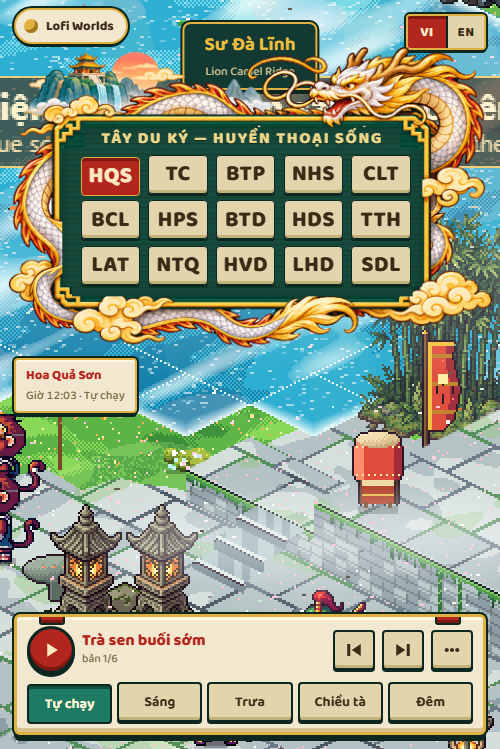
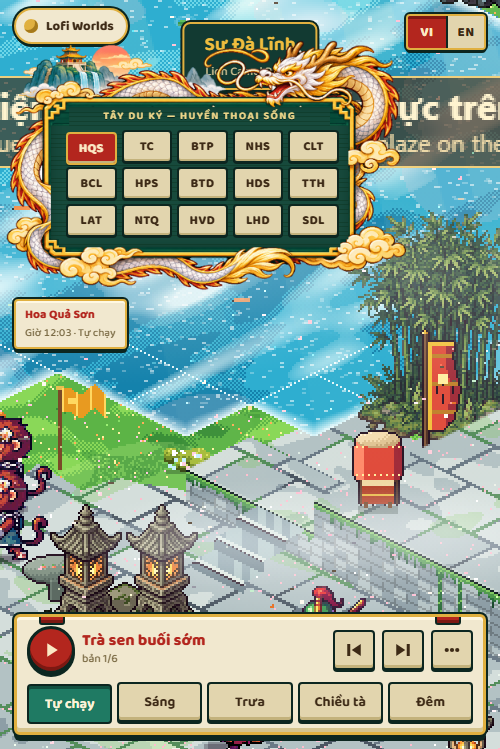
Tây Du Ký UI polish: compact Saigon-density plaque (400px frame, 10.5px title, 12.5px labels), before/after comparison shots

diff --git a/tayduky/td-theme.css b/tayduky/td-theme.css
@@ -63,8 +63,6 @@ body.clean #deco { display: none; }
    its plaque interior is transparent, so the real DOM board (#eras) shows through and the 15 buttons stay interactive.
    Everything is placed in units of --u = 1/1000 of the artwork width, so it scales as one piece. Art px (1000 x 637):
    board interior x 108-860, y 164-522; title centre y 186; button grid x 150-832, y 225-497. */
-:root { --aw: clamp(290px, min(calc(100vw - 16px), 560px, calc((100vh - 220px) * 1.57)), 620px); --u: calc(var(--aw) / 1000); --ax: 8px; --ay: 46px; }
-@media (min-width: 1700px) and (min-height: 900px) { :root { --aw: 620px; } }
 #deco { position: fixed; left: var(--ax); top: var(--ay); width: var(--aw); height: auto; z-index: 4; pointer-events: none; user-select: none; -webkit-user-drag: none; }
 #hud { position: fixed; inset: 0; max-width: none; display: block; pointer-events: none; }
 #hud > * { pointer-events: auto; }
@@ -77,3 +75,12 @@ body.clean #deco { display: none; }
 #eras .tabs.nav button { min-height: 0; height: 100%; font-size: clamp(10px, calc(46 * var(--u)), 28px); border-radius: calc(8 * var(--u)); border-width: calc(2.5 * var(--u)); }
 #info { position: absolute; left: 14px; top: calc(var(--ay) + var(--aw) * 0.637 + 4px); }
 #eras .tabs.nav button.busy .dotb { top: calc(5 * var(--u)); right: calc(5 * var(--u)); }
+
+/* ----- compact polish: Saigon's density (cap 10.5px, small labels). Art 1000px wide is shown at ~400px (350px on phones). ----- */
+:root { --aw: min(calc(100vw - 16px), 400px); --u: calc(var(--aw) / 1000); --ax: 6px; --ay: 40px; }
+@media (max-width: 480px) { :root { --aw: min(calc(100vw - 12px), 340px); --ax: 4px; --ay: 38px; } }
+#eras .cap { font-size: 10.5px; letter-spacing: 1.4px; font-weight: 700; }
+#eras .tabs.nav button { font-size: 12.5px; letter-spacing: .3px; font-weight: 800; border-width: 2px; border-radius: 4px; box-shadow: inset 0 -2px 0 #c3b27c, 0 1px 0 var(--ink); }
+#eras .tabs.nav { gap: 4px 5px; }
+@media (max-width: 480px) { #eras .cap { font-size: 8.5px; letter-spacing: .6px; } #eras .tabs.nav button { font-size: 11px; } #eras .tabs.nav { gap: 3px 4px; } }
+#info { padding: 4px 9px 5px; } #eraSub { font-size: 12px; } #status { font-size: 11px; }

diff --git a/docs/tayduky/v3/UI-DESIGN.md b/docs/tayduky/v3/UI-DESIGN.md
@@ -43,3 +43,9 @@ navigator compact at ≤700 px and ≤480 px (td-theme.css). Shots: `ui-responsi
 ## Accessibility
 Real `<button>`s with labels, `aria-pressed`/`aria-current`, visible focus, tooltip on focus, reduced-motion rules for the card,
 tooltip, camera tween (instant jump) and dragon (still).
+
+## Compact polish (after Checkpoint A)
+Saigon is the density standard (its plate: 10.5px caption, ~52x36 era buttons). The frame is now 400px wide (340px on phones), the
+title is 10.5px / 1.4px tracking (8.5px on phones) and the 15 labels are 12.5px (11px on phones) in 5x3 buttons of about 46x28px with
+4-5px gaps. The artwork file is unchanged (`a447fc2`); only its scale/position and the DOM typography changed.
+Before/after/Saigon shots at 1920x1080, 1366x768, 820x1180, 390x844: `screenshots/ui/polish/`.
